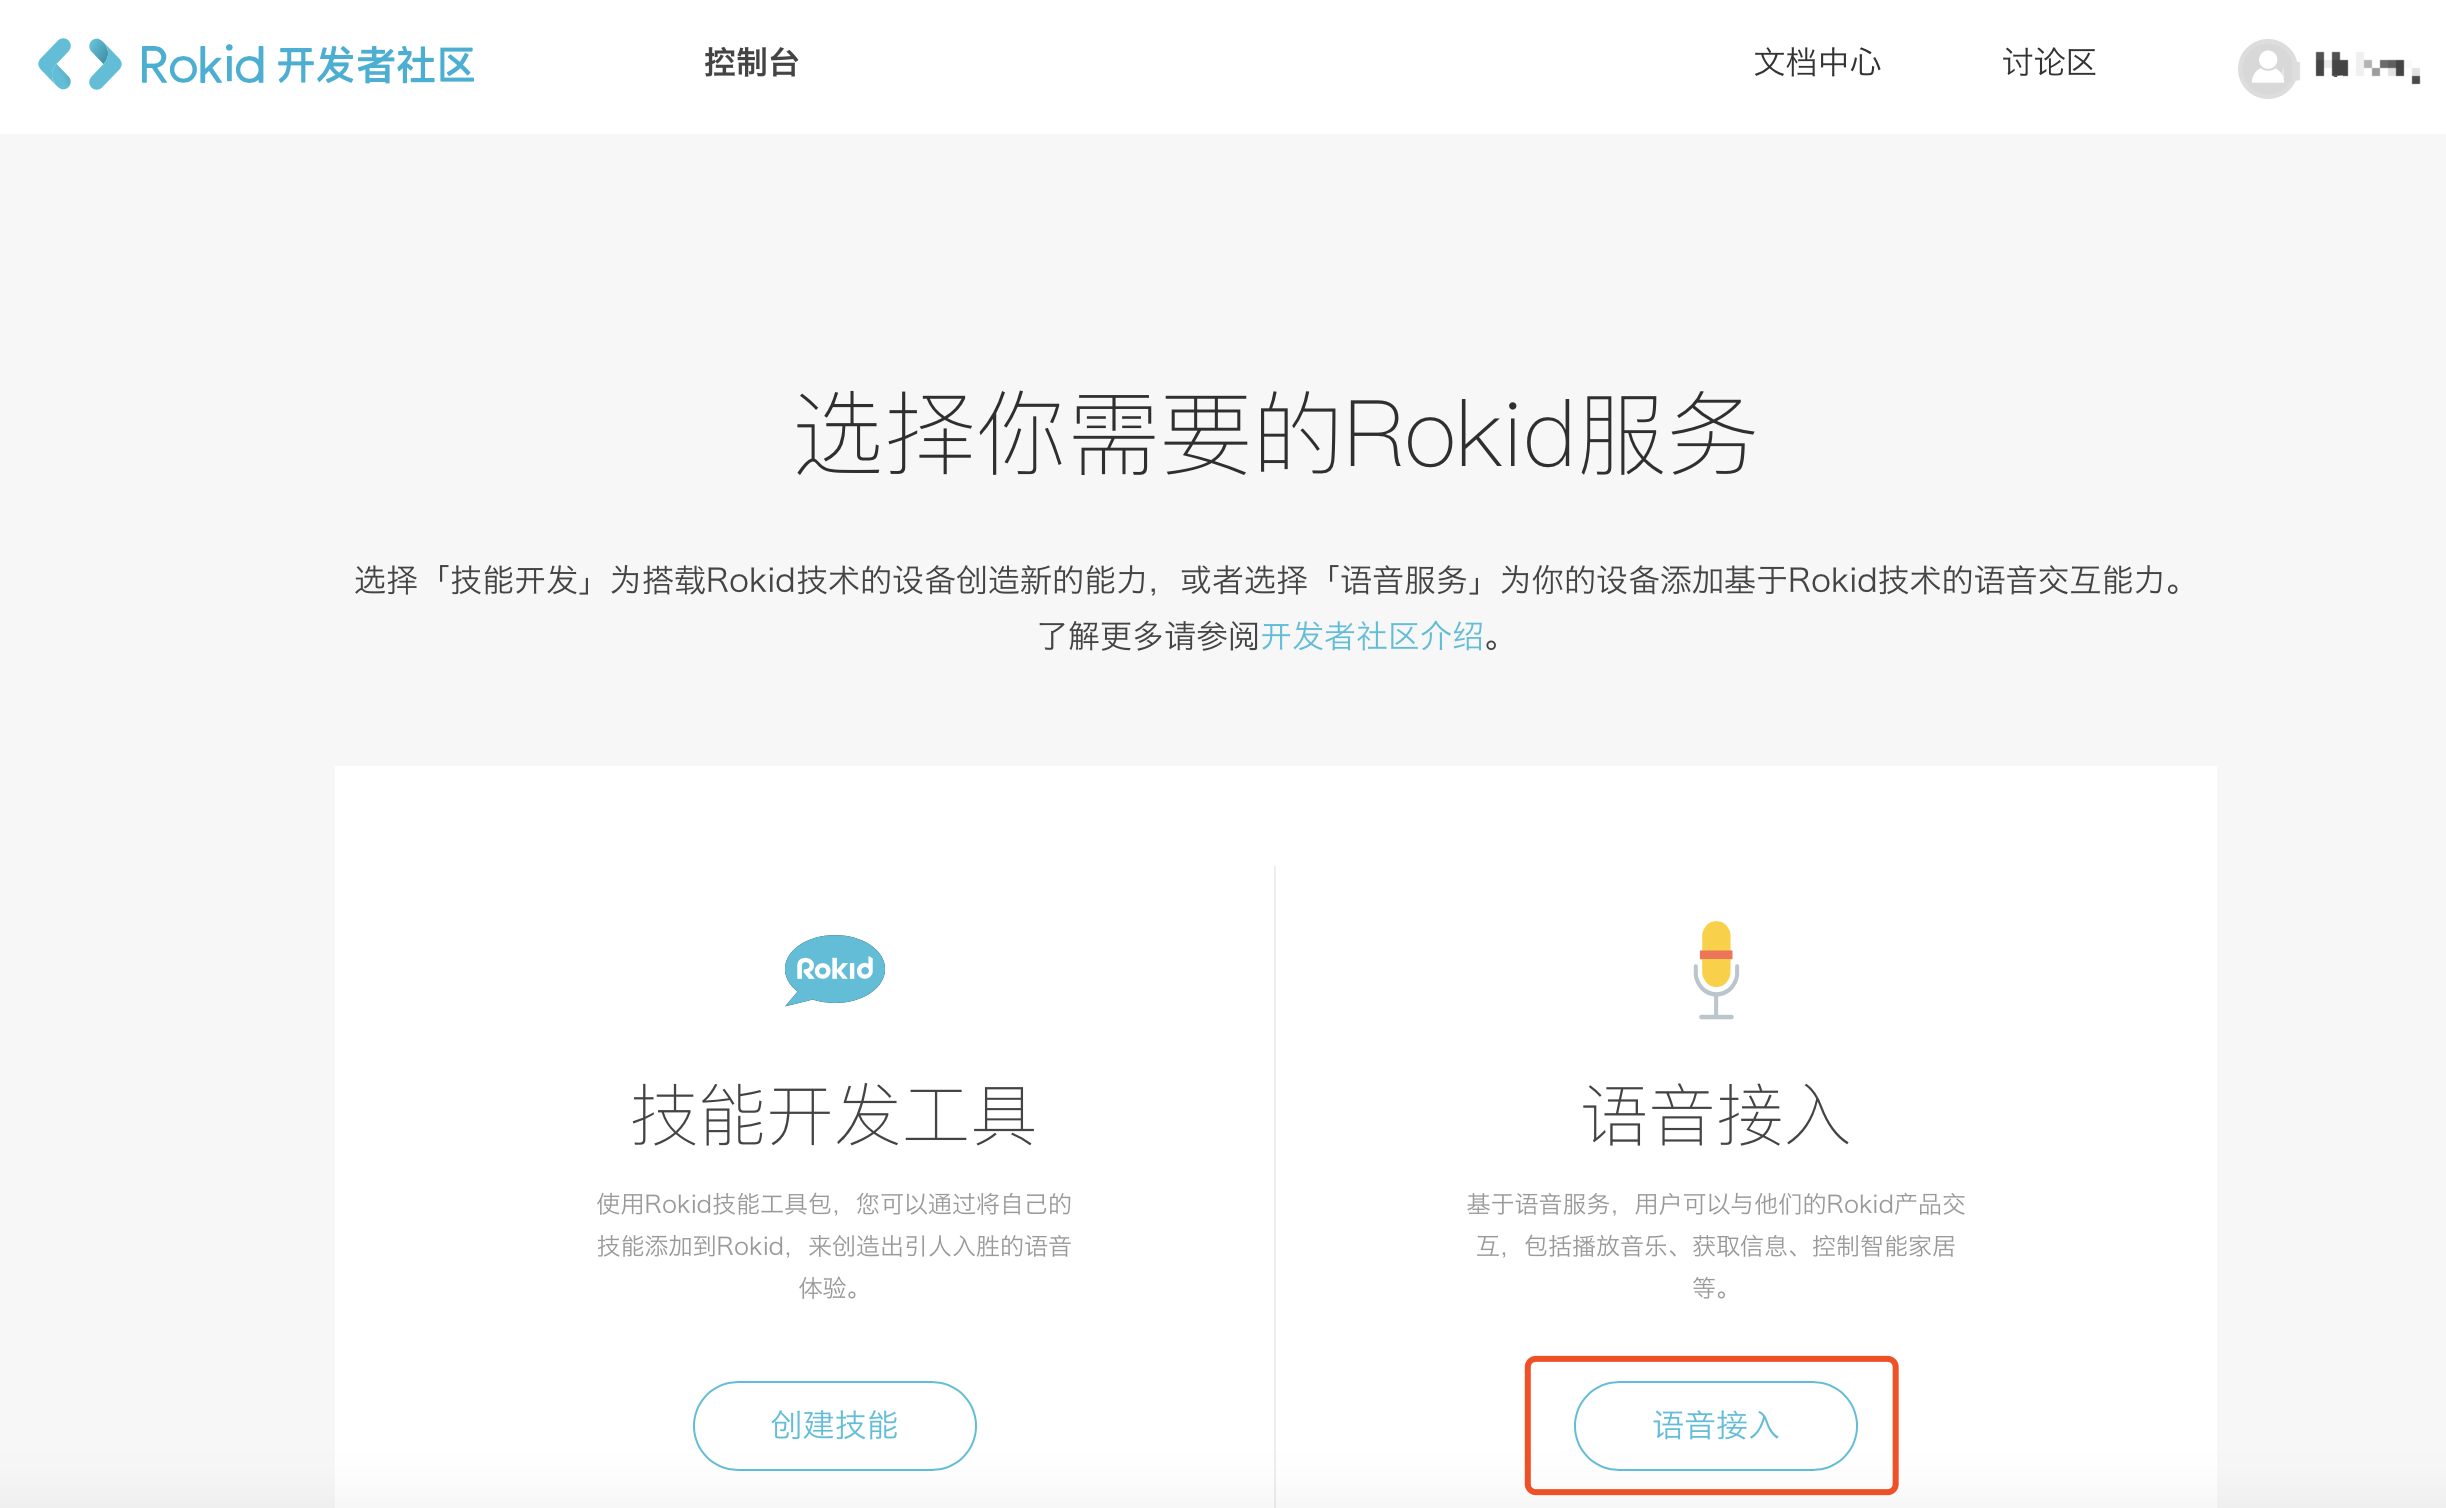
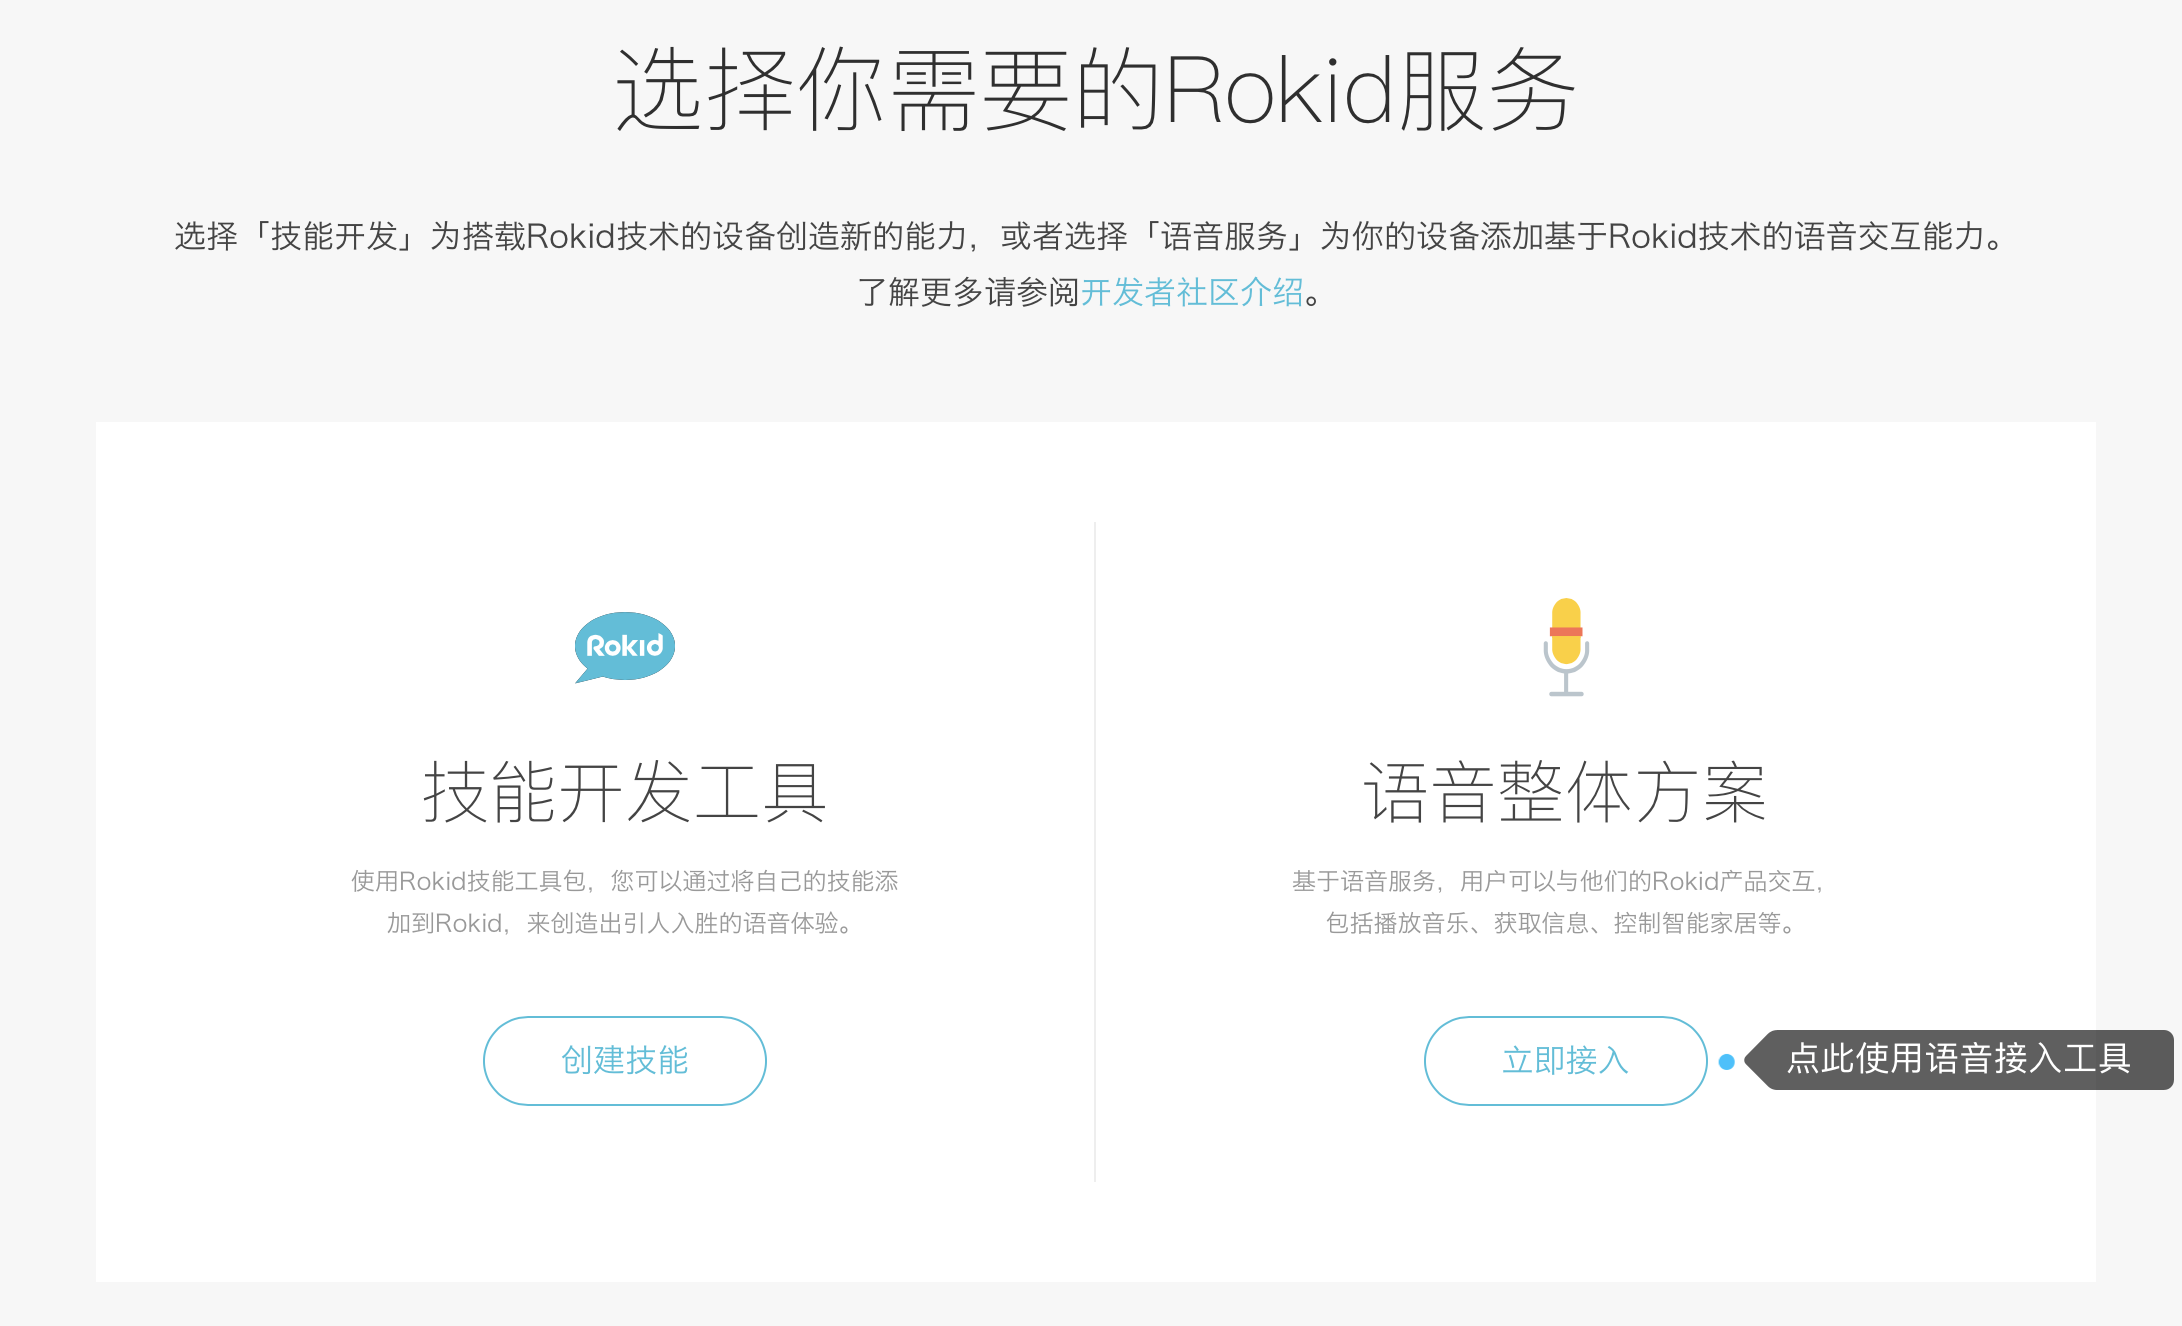
images (#357)
官网改版，修改截图

diff --git a/5-enableVoice/rokid-vsvy-sdk-docs/rookie-guide/rookie-guide.md b/5-enableVoice/rokid-vsvy-sdk-docs/rookie-guide/rookie-guide.md
@@ -17,16 +17,17 @@
 #### 登录平台账号
 **若尚未有账号请先注册**
 
-要使用Rokid开放平台的语音整体方案，请先点击[Rokid开发者社区](https://developer.rokid.com/#/)首页右上方的【登录】按钮，登录Rokid开放平台。如果未有账号，则点击旁边的【注册】按钮进行注册。如下图所示。
+要使用Rokid开放平台的语音整体方案，请先点击[Rokid开放平台](https://developer.rokid.com/#/)首页右上方的【登录】按钮，登录Rokid开放平台。如果未有账号，则点击旁边的【注册】按钮进行注册。如下图所示。
 
 ![](images/01.png)
 
+登录以后，即进入了Rokid开放平台的控制台。首先您需要勾选【同意并接受该协议所有内容】以同意开发者社区服务协议，并点击确定。如下图所示。
 
+![](images/fuwuxieyi.jpg)
 
-登录以后，即进入了Rokid开放平台的控制台。在控制台选择【语音接入】，即可开始使用语音接入工具。如下图所示。
+然后选择语音整体方案，点击【立即接入】，即可开始使用语音接入工具。如下图所示。
 
 ![](images/02.png)
-
 
 
 #### 创建产品
@@ -115,7 +116,7 @@ Rokid平台上的技能根据开放性的不同，可以分为**`公开技能`**
 
 【技能商店】是平台展示各类技能的地方 。目前只展示公有技能和rokid私有技能 。您可以添加公有技能，也可以添加自己创建的技能，但是添加rokid私有技能需要联系商务(商务邮箱:rokidopen@rokid.com)授权。
 
-若您想要添加自己创建的技能，目前有两种方法： 一种是在自己创建的技能页面的发布页面，添加设备typeid，若为公有技能，添加设备id后即可生效，若为私有技能，需前往语音接入的服务配置页面，接受授权。另一种是在语音接入的服务配置页面添加自己创建的技能 。（创建技能的具体步骤，请参考：[技能创建与发布](/2-RokidDocument/1-SkillsKit/getting-started/create-and-pulibsh.md)）
+若您想要添加自己创建的技能，目前有两种方法： 一种是在自己创建的技能页面的发布页面，添加设备typeid，若为公有技能，添加设备id后即可生效，若为私有技能，需前往语音接入的服务配置页面，接受授权。另一种是在语音接入的服务配置页面添加自己创建的技能 。（创建技能的具体步骤，请参考：[技能创建与发布](2-RokidDocument/1-SkillsKit/getting-started/create-and-pulibsh.md)）
 
 ![](images/08.png)
 

diff --git a/2-RokidDocument/1-SkillsKit/getting-started/skill-store.md b/2-RokidDocument/1-SkillsKit/getting-started/skill-store.md
@@ -1,7 +1,7 @@
 ### 技能商店
 
-公有技能「讲个笑话」通过审核后，可在[技能商店](https://skill.rokid.com/store/#/)搜索到，如图：
+公有技能「翻译大管家」通过审核后，可在[技能商店](https://skill.rokid.com/store/#/)搜索到，如图：
 ![](images/07-技能商店展示技能.png)
 
-单击「讲个笑话」，可看到技能详情，如下图：
+单击「翻译大管家」，可看到技能详情，如下图：
 ![](images/07-技能详情展示.png)
